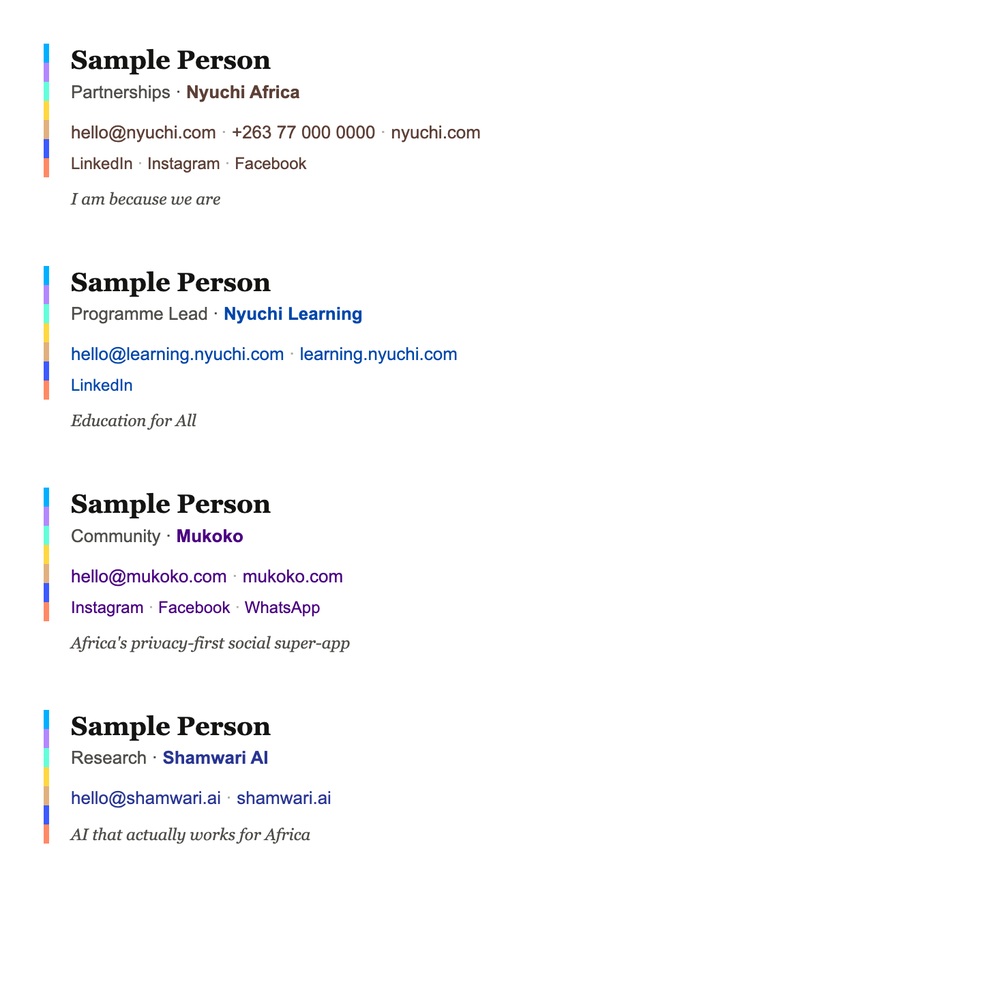
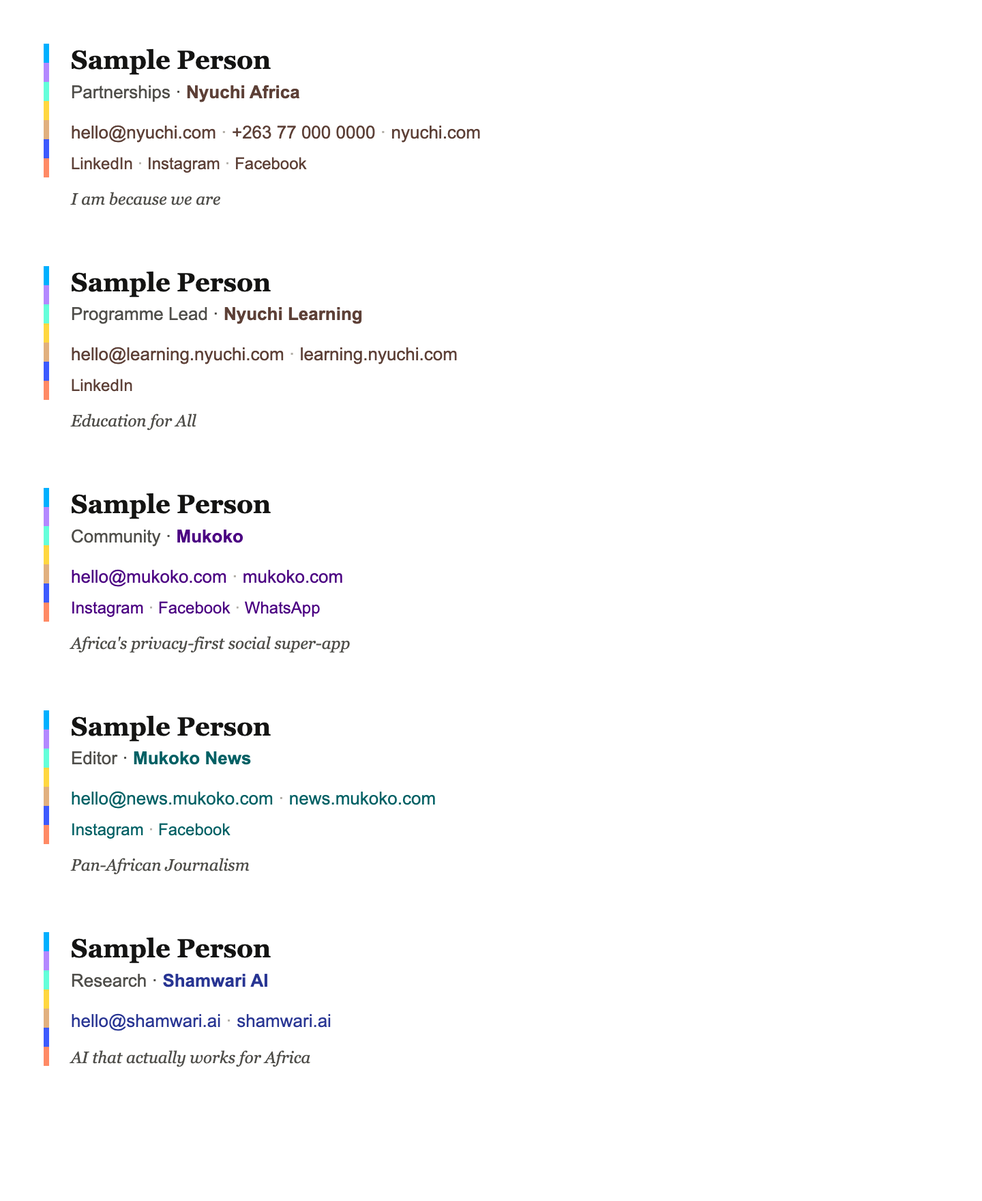
fix(brands): Nyuchi is gold, Mukoko tanzanite, Bundu copper — enforced (#75)
Owner rules on #70, on top of the Mzizi ecosystem canon:
- every Nyuchi brand and division is gold (Learning, Development,
  Foundation were cobalt/sodalite/malachite);
- Mukoko, the super app, is tanzanite; Mukoko News moves off tanzanite to
  river (heritage) — the canon has no colour for it;
- Bundu Foundation stays copper (the canon's choice);
- Lingo follows the canon (cobalt); TELIA indigo, Bundu Education savanna,
  so no sub-app takes gold or tanzanite.

Brands may now take a heritage colour; the signature knows all fourteen
families and keeps AA link contrast. A test enforces the rules. Signature
samples re-rendered, with Mukoko News added.

Claude-Session: https://claude.ai/code/session_01GHjaH1Vt2dVLWU68iz8tFq

Changed region(s): [[0.0312, 0.0312, 0.4688, 0.9062], [0.4062, 0.0938, 0.5, 0.1562]]

diff --git a/samples/signatures/index.html b/samples/signatures/index.html
@@ -1,1 +1,1 @@
-<!doctype html><meta charset="utf-8"><title>Signature samples</title><body style="margin:0;padding:32px;background:#ffffff;"><table role="presentation" cellpadding="0" cellspacing="0" border="0" style="border-collapse:collapse;font-family:'Noto Sans',Arial,Helvetica,sans-serif;font-size:13px;line-height:1.5;color:#141413;max-width:560px;"><tr><td valign="top" width="4" style="width:4px;padding:0;"><table role="presentation" cellpadding="0" cellspacing="0" border="0" width="4" style="border-collapse:collapse;width:4px;"><tr><td width="4" height="14" bgcolor="#00B0FF" style="width:4px;height:14px;background-color:#00B0FF;font-size:0;line-height:0;">&nbsp;</td></tr><tr><td width="4" height="14" bgcolor="#B388FF" style="width:4px;height:14px;background-color:#B388FF;font-size:0;line-height:0;">&nbsp;</td></tr><tr><td width="4" height="14" bgcolor="#64FFDA" style="width:4px;height:14px;background-color:#64FFDA;font-size:0;line-height:0;">&nbsp;</td></tr><tr><td width="4" height="14" bgcolor="#FFD740" style="width:4px;height:14px;background-color:#FFD740;font-size:0;line-height:0;">&nbsp;</td></tr><tr><td width="4" height="14" bgcolor="#E1B07E" style="width:4px;height:14px;background-color:#E1B07E;font-size:0;line-height:0;">&nbsp;</td></tr><tr><td width="4" height="14" bgcolor="#3D5AFE" style="width:4px;height:14px;background-color:#3D5AFE;font-size:0;line-height:0;">&nbsp;</td></tr><tr><td width="4" height="14" bgcolor="#FF8A65" style="width:4px;height:14px;background-color:#FF8A65;font-size:0;line-height:0;">&nbsp;</td></tr></table></td><td valign="top" style="padding:0 0 0 16px;"><div style="font-family:'Noto Serif',Georgia,'Times New Roman',serif;font-size:19px;font-weight:700;line-height:1.25;color:#141413;">Sample Person</div><div style="font-size:13px;color:#4F4E4A;padding:2px 0 10px 0;">Partnerships · <span style="color:#5D4037;font-weight:600;">Nyuchi Africa</span></div><div style="font-size:13px;color:#4F4E4A;"><a href="mailto:hello@nyuchi.com" style="color:#5D4037;text-decoration:none;">hello@nyuchi.com</a> <span style="color:#B2AFA8;">·</span> <a href="tel:+263770000000" style="color:#5D4037;text-decoration:none;">+263 77 000 0000</a> <span style="color:#B2AFA8;">·</span> <a href="https://nyuchi.com" style="color:#5D4037;text-decoration:none;">nyuchi.com</a></div><div style="font-size:12px;color:#4F4E4A;padding-top:4px;"><a href="https://www.linkedin.com/company/nyuchi/" style="color:#5D4037;text-decoration:none;">LinkedIn</a> <span style="color:#B2AFA8;">·</span> <a href="https://instagram.com/nyuchi.africa" style="color:#5D4037;text-decoration:none;">Instagram</a> <span style="color:#B2AFA8;">·</span> <a href="https://facebook.com/nyuchigroup" style="color:#5D4037;text-decoration:none;">Facebook</a></div><div style="font-family:'Noto Serif',Georgia,'Times New Roman',serif;font-size:12px;font-style:italic;color:#4F4E4A;padding-top:8px;">I am because we are</div></td></tr></table><div style="height:40px"></div><table role="presentation" cellpadding="0" cellspacing="0" border="0" style="border-collapse:collapse;font-family:'Noto Sans',Arial,Helvetica,sans-serif;font-size:13px;line-height:1.5;color:#141413;max-width:560px;"><tr><td valign="top" width="4" style="width:4px;padding:0;"><table role="presentation" cellpadding="0" cellspacing="0" border="0" width="4" style="border-collapse:collapse;width:4px;"><tr><td width="4" height="14" bgcolor="#00B0FF" style="width:4px;height:14px;background-color:#00B0FF;font-size:0;line-height:0;">&nbsp;</td></tr><tr><td width="4" height="14" bgcolor="#B388FF" style="width:4px;height:14px;background-color:#B388FF;font-size:0;line-height:0;">&nbsp;</td></tr><tr><td width="4" height="14" bgcolor="#64FFDA" style="width:4px;height:14px;background-color:#64FFDA;font-size:0;line-height:0;">&nbsp;</td></tr><tr><td width="4" height="14" bgcolor="#FFD740" style="width:4px;height:14px;background-color:#FFD740;font-size:0;line-height:0;">&nbsp;</td></tr><tr><td width="4" height="14" bgcolor="#E1B07E" style="width:4px;height:14px;background-color:#E1B07E;font-size:0;line-height:0;">&nbsp;</td></tr><tr><td width="4" height="14" bgcolor="#3D5AFE" style="width:4px;height:14px;background-color:#3D5AFE;font-size:0;line-height:0;">&nbsp;</td></tr><tr><td width="4" height="14" bgcolor="#FF8A65" style="width:4px;height:14px;background-color:#FF8A65;font-size:0;line-height:0;">&nbsp;</td></tr></table></td><td valign="top" style="padding:0 0 0 16px;"><div style="font-family:'Noto Serif',Georgia,'Times New Roman',serif;font-size:19px;font-weight:700;line-height:1.25;color:#141413;">Sample Person</div><div style="font-size:13px;color:#4F4E4A;padding:2px 0 10px 0;">Programme Lead · <span style="color:#0047AB;font-weight:600;">Nyuchi Learning</span></div><div style="font-size:13px;color:#4F4E4A;"><a href="mailto:hello@learning.nyuchi.com" style="color:#0047AB;text-decoration:none;">hello@learning.nyuchi.com</a> <span style="color:#B2AFA8;">·</span> <a href="https://learning.nyuchi.com" style="color:#0047AB;text-decoration:none;">learning.nyuchi.com</a></div><div style="font-size:12px;color:#4F4E4A;padding-top:4px;"><a href="https://www.linkedin.com/company/nyuchi/" style="color:#0047AB;text-decoration:none;">LinkedIn</a></div><div style="font-family:'Noto Serif',Georgia,'Times New Roman',serif;font-size:12px;font-style:italic;color:#4F4E4A;padding-top:8px;">Education for All</div></td></tr></table><div style="height:40px"></div><table role="presentation" cellpadding="0" cellspacing="0" border="0" style="border-collapse:collapse;font-family:'Noto Sans',Arial,Helvetica,sans-serif;font-size:13px;line-height:1.5;color:#141413;max-width:560px;"><tr><td valign="top" width="4" style="width:4px;padding:0;"><table role="presentation" cellpadding="0" cellspacing="0" border="0" width="4" style="border-collapse:collapse;width:4px;"><tr><td width="4" height="14" bgcolor="#00B0FF" style="width:4px;height:14px;background-color:#00B0FF;font-size:0;line-height:0;">&nbsp;</td></tr><tr><td width="4" height="14" bgcolor="#B388FF" style="width:4px;height:14px;background-color:#B388FF;font-size:0;line-height:0;">&nbsp;</td></tr><tr><td width="4" height="14" bgcolor="#64FFDA" style="width:4px;height:14px;background-color:#64FFDA;font-size:0;line-height:0;">&nbsp;</td></tr><tr><td width="4" height="14" bgcolor="#FFD740" style="width:4px;height:14px;background-color:#FFD740;font-size:0;line-height:0;">&nbsp;</td></tr><tr><td width="4" height="14" bgcolor="#E1B07E" style="width:4px;height:14px;background-color:#E1B07E;font-size:0;line-height:0;">&nbsp;</td></tr><tr><td width="4" height="14" bgcolor="#3D5AFE" style="width:4px;height:14px;background-color:#3D5AFE;font-size:0;line-height:0;">&nbsp;</td></tr><tr><td width="4" height="14" bgcolor="#FF8A65" style="width:4px;height:14px;background-color:#FF8A65;font-size:0;line-height:0;">&nbsp;</td></tr></table></td><td valign="top" style="padding:0 0 0 16px;"><div style="font-family:'Noto Serif',Georgia,'Times New Roman',serif;font-size:19px;font-weight:700;line-height:1.25;color:#141413;">Sample Person</div><div style="font-size:13px;color:#4F4E4A;padding:2px 0 10px 0;">Community · <span style="color:#4B0082;font-weight:600;">Mukoko</span></div><div style="font-size:13px;color:#4F4E4A;"><a href="mailto:hello@mukoko.com" style="color:#4B0082;text-decoration:none;">hello@mukoko.com</a> <span style="color:#B2AFA8;">·</span> <a href="https://mukoko.com" style="color:#4B0082;text-decoration:none;">mukoko.com</a></div><div style="font-size:12px;color:#4F4E4A;padding-top:4px;"><a href="https://instagram.com/mukoko.africa" style="color:#4B0082;text-decoration:none;">Instagram</a> <span style="color:#B2AFA8;">·</span> <a href="https://facebook.com/mukokoafrica" style="color:#4B0082;text-decoration:none;">Facebook</a> <span style="color:#B2AFA8;">·</span> <a href="https://wa.me/263770000000" style="color:#4B0082;text-decoration:none;">WhatsApp</a></div><div style="font-family:'Noto Serif',Georgia,'Times New Roman',serif;font-size:12px;font-style:italic;color:#4F4E4A;padding-top:8px;">Africa&#39;s privacy-first social super-app</div></td></tr></table><div style="height:40px"></div><table role="presentation" cellpadding="0" cellspacing="0" border="0" style="border-collapse:collapse;font-family:'Noto Sans',Arial,Helvetica,sans-serif;font-size:13px;line-height:1.5;color:#141413;max-width:560px;"><tr><td valign="top" width="4" style="width:4px;padding:0;"><table role="presentation" cellpadding="0" cellspacing="0" border="0" width="4" style="border-collapse:collapse;width:4px;"><tr><td width="4" height="14" bgcolor="#00B0FF" style="width:4px;height:14px;background-color:#00B0FF;font-size:0;line-height:0;">&nbsp;</td></tr><tr><td width="4" height="14" bgcolor="#B388FF" style="width:4px;height:14px;background-color:#B388FF;font-size:0;line-height:0;">&nbsp;</td></tr><tr><td width="4" height="14" bgcolor="#64FFDA" style="width:4px;height:14px;background-color:#64FFDA;font-size:0;line-height:0;">&nbsp;</td></tr><tr><td width="4" height="14" bgcolor="#FFD740" style="width:4px;height:14px;background-color:#FFD740;font-size:0;line-height:0;">&nbsp;</td></tr><tr><td width="4" height="14" bgcolor="#E1B07E" style="width:4px;height:14px;background-color:#E1B07E;font-size:0;line-height:0;">&nbsp;</td></tr><tr><td width="4" height="14" bgcolor="#3D5AFE" style="width:4px;height:14px;background-color:#3D5AFE;font-size:0;line-height:0;">&nbsp;</td></tr><tr><td width="4" height="14" bgcolor="#FF8A65" style="width:4px;height:14px;background-color:#FF8A65;font-size:0;line-height:0;">&nbsp;</td></tr></table></td><td valign="top" style="padding:0 0 0 16px;"><div style="font-family:'Noto Serif',Georgia,'Times New Roman',serif;font-size:19px;font-weight:700;line-height:1.25;color:#141413;">Sample Person</div><div style="font-size:13px;color:#4F4E4A;padding:2px 0 10px 0;">Research · <span style="color:#283593;font-weight:600;">Shamwari AI</span></div><div style="font-size:13px;color:#4F4E4A;"><a href="mailto:hello@shamwari.ai" style="color:#283593;text-decoration:none;">hello@shamwari.ai</a> <span style="color:#B2AFA8;">·</span> <a href="https://shamwari.ai" style="color:#283593;text-decoration:none;">shamwari.ai</a></div><div style="font-family:'Noto Serif',Georgia,'Times New Roman',serif;font-size:12px;font-style:italic;color:#4F4E4A;padding-top:8px;">AI that actually works for Africa</div></td></tr></table><div style="height:40px"></div></body>
+<!doctype html><meta charset="utf-8"><title>Signature samples</title><body style="margin:0;padding:32px;background:#ffffff;"><table role="presentation" cellpadding="0" cellspacing="0" border="0" style="border-collapse:collapse;font-family:'Noto Sans',Arial,Helvetica,sans-serif;font-size:13px;line-height:1.5;color:#141413;max-width:560px;"><tr><td valign="top" width="4" style="width:4px;padding:0;"><table role="presentation" cellpadding="0" cellspacing="0" border="0" width="4" style="border-collapse:collapse;width:4px;"><tr><td width="4" height="14" bgcolor="#00B0FF" style="width:4px;height:14px;background-color:#00B0FF;font-size:0;line-height:0;">&nbsp;</td></tr><tr><td width="4" height="14" bgcolor="#B388FF" style="width:4px;height:14px;background-color:#B388FF;font-size:0;line-height:0;">&nbsp;</td></tr><tr><td width="4" height="14" bgcolor="#64FFDA" style="width:4px;height:14px;background-color:#64FFDA;font-size:0;line-height:0;">&nbsp;</td></tr><tr><td width="4" height="14" bgcolor="#FFD740" style="width:4px;height:14px;background-color:#FFD740;font-size:0;line-height:0;">&nbsp;</td></tr><tr><td width="4" height="14" bgcolor="#E1B07E" style="width:4px;height:14px;background-color:#E1B07E;font-size:0;line-height:0;">&nbsp;</td></tr><tr><td width="4" height="14" bgcolor="#3D5AFE" style="width:4px;height:14px;background-color:#3D5AFE;font-size:0;line-height:0;">&nbsp;</td></tr><tr><td width="4" height="14" bgcolor="#FF8A65" style="width:4px;height:14px;background-color:#FF8A65;font-size:0;line-height:0;">&nbsp;</td></tr></table></td><td valign="top" style="padding:0 0 0 16px;"><div style="font-family:'Noto Serif',Georgia,'Times New Roman',serif;font-size:19px;font-weight:700;line-height:1.25;color:#141413;">Sample Person</div><div style="font-size:13px;color:#4F4E4A;padding:2px 0 10px 0;">Partnerships · <span style="color:#5D4037;font-weight:600;">Nyuchi Africa</span></div><div style="font-size:13px;color:#4F4E4A;"><a href="mailto:hello@nyuchi.com" style="color:#5D4037;text-decoration:none;">hello@nyuchi.com</a> <span style="color:#B2AFA8;">·</span> <a href="tel:+263770000000" style="color:#5D4037;text-decoration:none;">+263 77 000 0000</a> <span style="color:#B2AFA8;">·</span> <a href="https://nyuchi.com" style="color:#5D4037;text-decoration:none;">nyuchi.com</a></div><div style="font-size:12px;color:#4F4E4A;padding-top:4px;"><a href="https://www.linkedin.com/company/nyuchi/" style="color:#5D4037;text-decoration:none;">LinkedIn</a> <span style="color:#B2AFA8;">·</span> <a href="https://instagram.com/nyuchi.africa" style="color:#5D4037;text-decoration:none;">Instagram</a> <span style="color:#B2AFA8;">·</span> <a href="https://facebook.com/nyuchigroup" style="color:#5D4037;text-decoration:none;">Facebook</a></div><div style="font-family:'Noto Serif',Georgia,'Times New Roman',serif;font-size:12px;font-style:italic;color:#4F4E4A;padding-top:8px;">I am because we are</div></td></tr></table><div style="height:40px"></div><table role="presentation" cellpadding="0" cellspacing="0" border="0" style="border-collapse:collapse;font-family:'Noto Sans',Arial,Helvetica,sans-serif;font-size:13px;line-height:1.5;color:#141413;max-width:560px;"><tr><td valign="top" width="4" style="width:4px;padding:0;"><table role="presentation" cellpadding="0" cellspacing="0" border="0" width="4" style="border-collapse:collapse;width:4px;"><tr><td width="4" height="14" bgcolor="#00B0FF" style="width:4px;height:14px;background-color:#00B0FF;font-size:0;line-height:0;">&nbsp;</td></tr><tr><td width="4" height="14" bgcolor="#B388FF" style="width:4px;height:14px;background-color:#B388FF;font-size:0;line-height:0;">&nbsp;</td></tr><tr><td width="4" height="14" bgcolor="#64FFDA" style="width:4px;height:14px;background-color:#64FFDA;font-size:0;line-height:0;">&nbsp;</td></tr><tr><td width="4" height="14" bgcolor="#FFD740" style="width:4px;height:14px;background-color:#FFD740;font-size:0;line-height:0;">&nbsp;</td></tr><tr><td width="4" height="14" bgcolor="#E1B07E" style="width:4px;height:14px;background-color:#E1B07E;font-size:0;line-height:0;">&nbsp;</td></tr><tr><td width="4" height="14" bgcolor="#3D5AFE" style="width:4px;height:14px;background-color:#3D5AFE;font-size:0;line-height:0;">&nbsp;</td></tr><tr><td width="4" height="14" bgcolor="#FF8A65" style="width:4px;height:14px;background-color:#FF8A65;font-size:0;line-height:0;">&nbsp;</td></tr></table></td><td valign="top" style="padding:0 0 0 16px;"><div style="font-family:'Noto Serif',Georgia,'Times New Roman',serif;font-size:19px;font-weight:700;line-height:1.25;color:#141413;">Sample Person</div><div style="font-size:13px;color:#4F4E4A;padding:2px 0 10px 0;">Programme Lead · <span style="color:#5D4037;font-weight:600;">Nyuchi Learning</span></div><div style="font-size:13px;color:#4F4E4A;"><a href="mailto:hello@learning.nyuchi.com" style="color:#5D4037;text-decoration:none;">hello@learning.nyuchi.com</a> <span style="color:#B2AFA8;">·</span> <a href="https://learning.nyuchi.com" style="color:#5D4037;text-decoration:none;">learning.nyuchi.com</a></div><div style="font-size:12px;color:#4F4E4A;padding-top:4px;"><a href="https://www.linkedin.com/company/nyuchi/" style="color:#5D4037;text-decoration:none;">LinkedIn</a></div><div style="font-family:'Noto Serif',Georgia,'Times New Roman',serif;font-size:12px;font-style:italic;color:#4F4E4A;padding-top:8px;">Education for All</div></td></tr></table><div style="height:40px"></div><table role="presentation" cellpadding="0" cellspacing="0" border="0" style="border-collapse:collapse;font-family:'Noto Sans',Arial,Helvetica,sans-serif;font-size:13px;line-height:1.5;color:#141413;max-width:560px;"><tr><td valign="top" width="4" style="width:4px;padding:0;"><table role="presentation" cellpadding="0" cellspacing="0" border="0" width="4" style="border-collapse:collapse;width:4px;"><tr><td width="4" height="14" bgcolor="#00B0FF" style="width:4px;height:14px;background-color:#00B0FF;font-size:0;line-height:0;">&nbsp;</td></tr><tr><td width="4" height="14" bgcolor="#B388FF" style="width:4px;height:14px;background-color:#B388FF;font-size:0;line-height:0;">&nbsp;</td></tr><tr><td width="4" height="14" bgcolor="#64FFDA" style="width:4px;height:14px;background-color:#64FFDA;font-size:0;line-height:0;">&nbsp;</td></tr><tr><td width="4" height="14" bgcolor="#FFD740" style="width:4px;height:14px;background-color:#FFD740;font-size:0;line-height:0;">&nbsp;</td></tr><tr><td width="4" height="14" bgcolor="#E1B07E" style="width:4px;height:14px;background-color:#E1B07E;font-size:0;line-height:0;">&nbsp;</td></tr><tr><td width="4" height="14" bgcolor="#3D5AFE" style="width:4px;height:14px;background-color:#3D5AFE;font-size:0;line-height:0;">&nbsp;</td></tr><tr><td width="4" height="14" bgcolor="#FF8A65" style="width:4px;height:14px;background-color:#FF8A65;font-size:0;line-height:0;">&nbsp;</td></tr></table></td><td valign="top" style="padding:0 0 0 16px;"><div style="font-family:'Noto Serif',Georgia,'Times New Roman',serif;font-size:19px;font-weight:700;line-height:1.25;color:#141413;">Sample Person</div><div style="font-size:13px;color:#4F4E4A;padding:2px 0 10px 0;">Community · <span style="color:#4B0082;font-weight:600;">Mukoko</span></div><div style="font-size:13px;color:#4F4E4A;"><a href="mailto:hello@mukoko.com" style="color:#4B0082;text-decoration:none;">hello@mukoko.com</a> <span style="color:#B2AFA8;">·</span> <a href="https://mukoko.com" style="color:#4B0082;text-decoration:none;">mukoko.com</a></div><div style="font-size:12px;color:#4F4E4A;padding-top:4px;"><a href="https://instagram.com/mukoko.africa" style="color:#4B0082;text-decoration:none;">Instagram</a> <span style="color:#B2AFA8;">·</span> <a href="https://facebook.com/mukokoafrica" style="color:#4B0082;text-decoration:none;">Facebook</a> <span style="color:#B2AFA8;">·</span> <a href="https://wa.me/263770000000" style="color:#4B0082;text-decoration:none;">WhatsApp</a></div><div style="font-family:'Noto Serif',Georgia,'Times New Roman',serif;font-size:12px;font-style:italic;color:#4F4E4A;padding-top:8px;">Africa&#39;s privacy-first social super-app</div></td></tr></table><div style="height:40px"></div><table role="presentation" cellpadding="0" cellspacing="0" border="0" style="border-collapse:collapse;font-family:'Noto Sans',Arial,Helvetica,sans-serif;font-size:13px;line-height:1.5;color:#141413;max-width:560px;"><tr><td valign="top" width="4" style="width:4px;padding:0;"><table role="presentation" cellpadding="0" cellspacing="0" border="0" width="4" style="border-collapse:collapse;width:4px;"><tr><td width="4" height="14" bgcolor="#00B0FF" style="width:4px;height:14px;background-color:#00B0FF;font-size:0;line-height:0;">&nbsp;</td></tr><tr><td width="4" height="14" bgcolor="#B388FF" style="width:4px;height:14px;background-color:#B388FF;font-size:0;line-height:0;">&nbsp;</td></tr><tr><td width="4" height="14" bgcolor="#64FFDA" style="width:4px;height:14px;background-color:#64FFDA;font-size:0;line-height:0;">&nbsp;</td></tr><tr><td width="4" height="14" bgcolor="#FFD740" style="width:4px;height:14px;background-color:#FFD740;font-size:0;line-height:0;">&nbsp;</td></tr><tr><td width="4" height="14" bgcolor="#E1B07E" style="width:4px;height:14px;background-color:#E1B07E;font-size:0;line-height:0;">&nbsp;</td></tr><tr><td width="4" height="14" bgcolor="#3D5AFE" style="width:4px;height:14px;background-color:#3D5AFE;font-size:0;line-height:0;">&nbsp;</td></tr><tr><td width="4" height="14" bgcolor="#FF8A65" style="width:4px;height:14px;background-color:#FF8A65;font-size:0;line-height:0;">&nbsp;</td></tr></table></td><td valign="top" style="padding:0 0 0 16px;"><div style="font-family:'Noto Serif',Georgia,'Times New Roman',serif;font-size:19px;font-weight:700;line-height:1.25;color:#141413;">Sample Person</div><div style="font-size:13px;color:#4F4E4A;padding:2px 0 10px 0;">Editor · <span style="color:#006064;font-weight:600;">Mukoko News</span></div><div style="font-size:13px;color:#4F4E4A;"><a href="mailto:hello@news.mukoko.com" style="color:#006064;text-decoration:none;">hello@news.mukoko.com</a> <span style="color:#B2AFA8;">·</span> <a href="https://news.mukoko.com" style="color:#006064;text-decoration:none;">news.mukoko.com</a></div><div style="font-size:12px;color:#4F4E4A;padding-top:4px;"><a href="https://instagram.com/mukoko.africa" style="color:#006064;text-decoration:none;">Instagram</a> <span style="color:#B2AFA8;">·</span> <a href="https://facebook.com/mukokoafrica" style="color:#006064;text-decoration:none;">Facebook</a></div><div style="font-family:'Noto Serif',Georgia,'Times New Roman',serif;font-size:12px;font-style:italic;color:#4F4E4A;padding-top:8px;">Pan-African Journalism</div></td></tr></table><div style="height:40px"></div><table role="presentation" cellpadding="0" cellspacing="0" border="0" style="border-collapse:collapse;font-family:'Noto Sans',Arial,Helvetica,sans-serif;font-size:13px;line-height:1.5;color:#141413;max-width:560px;"><tr><td valign="top" width="4" style="width:4px;padding:0;"><table role="presentation" cellpadding="0" cellspacing="0" border="0" width="4" style="border-collapse:collapse;width:4px;"><tr><td width="4" height="14" bgcolor="#00B0FF" style="width:4px;height:14px;background-color:#00B0FF;font-size:0;line-height:0;">&nbsp;</td></tr><tr><td width="4" height="14" bgcolor="#B388FF" style="width:4px;height:14px;background-color:#B388FF;font-size:0;line-height:0;">&nbsp;</td></tr><tr><td width="4" height="14" bgcolor="#64FFDA" style="width:4px;height:14px;background-color:#64FFDA;font-size:0;line-height:0;">&nbsp;</td></tr><tr><td width="4" height="14" bgcolor="#FFD740" style="width:4px;height:14px;background-color:#FFD740;font-size:0;line-height:0;">&nbsp;</td></tr><tr><td width="4" height="14" bgcolor="#E1B07E" style="width:4px;height:14px;background-color:#E1B07E;font-size:0;line-height:0;">&nbsp;</td></tr><tr><td width="4" height="14" bgcolor="#3D5AFE" style="width:4px;height:14px;background-color:#3D5AFE;font-size:0;line-height:0;">&nbsp;</td></tr><tr><td width="4" height="14" bgcolor="#FF8A65" style="width:4px;height:14px;background-color:#FF8A65;font-size:0;line-height:0;">&nbsp;</td></tr></table></td><td valign="top" style="padding:0 0 0 16px;"><div style="font-family:'Noto Serif',Georgia,'Times New Roman',serif;font-size:19px;font-weight:700;line-height:1.25;color:#141413;">Sample Person</div><div style="font-size:13px;color:#4F4E4A;padding:2px 0 10px 0;">Research · <span style="color:#283593;font-weight:600;">Shamwari AI</span></div><div style="font-size:13px;color:#4F4E4A;"><a href="mailto:hello@shamwari.ai" style="color:#283593;text-decoration:none;">hello@shamwari.ai</a> <span style="color:#B2AFA8;">·</span> <a href="https://shamwari.ai" style="color:#283593;text-decoration:none;">shamwari.ai</a></div><div style="font-family:'Noto Serif',Georgia,'Times New Roman',serif;font-size:12px;font-style:italic;color:#4F4E4A;padding-top:8px;">AI that actually works for Africa</div></td></tr></table><div style="height:40px"></div></body>

diff --git a/samples/signatures/learning.html b/samples/signatures/learning.html
@@ -1,1 +1,1 @@
-<table role="presentation" cellpadding="0" cellspacing="0" border="0" style="border-collapse:collapse;font-family:'Noto Sans',Arial,Helvetica,sans-serif;font-size:13px;line-height:1.5;color:#141413;max-width:560px;"><tr><td valign="top" width="4" style="width:4px;padding:0;"><table role="presentation" cellpadding="0" cellspacing="0" border="0" width="4" style="border-collapse:collapse;width:4px;"><tr><td width="4" height="14" bgcolor="#00B0FF" style="width:4px;height:14px;background-color:#00B0FF;font-size:0;line-height:0;">&nbsp;</td></tr><tr><td width="4" height="14" bgcolor="#B388FF" style="width:4px;height:14px;background-color:#B388FF;font-size:0;line-height:0;">&nbsp;</td></tr><tr><td width="4" height="14" bgcolor="#64FFDA" style="width:4px;height:14px;background-color:#64FFDA;font-size:0;line-height:0;">&nbsp;</td></tr><tr><td width="4" height="14" bgcolor="#FFD740" style="width:4px;height:14px;background-color:#FFD740;font-size:0;line-height:0;">&nbsp;</td></tr><tr><td width="4" height="14" bgcolor="#E1B07E" style="width:4px;height:14px;background-color:#E1B07E;font-size:0;line-height:0;">&nbsp;</td></tr><tr><td width="4" height="14" bgcolor="#3D5AFE" style="width:4px;height:14px;background-color:#3D5AFE;font-size:0;line-height:0;">&nbsp;</td></tr><tr><td width="4" height="14" bgcolor="#FF8A65" style="width:4px;height:14px;background-color:#FF8A65;font-size:0;line-height:0;">&nbsp;</td></tr></table></td><td valign="top" style="padding:0 0 0 16px;"><div style="font-family:'Noto Serif',Georgia,'Times New Roman',serif;font-size:19px;font-weight:700;line-height:1.25;color:#141413;">Sample Person</div><div style="font-size:13px;color:#4F4E4A;padding:2px 0 10px 0;">Programme Lead · <span style="color:#0047AB;font-weight:600;">Nyuchi Learning</span></div><div style="font-size:13px;color:#4F4E4A;"><a href="mailto:hello@learning.nyuchi.com" style="color:#0047AB;text-decoration:none;">hello@learning.nyuchi.com</a> <span style="color:#B2AFA8;">·</span> <a href="https://learning.nyuchi.com" style="color:#0047AB;text-decoration:none;">learning.nyuchi.com</a></div><div style="font-size:12px;color:#4F4E4A;padding-top:4px;"><a href="https://www.linkedin.com/company/nyuchi/" style="color:#0047AB;text-decoration:none;">LinkedIn</a></div><div style="font-family:'Noto Serif',Georgia,'Times New Roman',serif;font-size:12px;font-style:italic;color:#4F4E4A;padding-top:8px;">Education for All</div></td></tr></table>
+<table role="presentation" cellpadding="0" cellspacing="0" border="0" style="border-collapse:collapse;font-family:'Noto Sans',Arial,Helvetica,sans-serif;font-size:13px;line-height:1.5;color:#141413;max-width:560px;"><tr><td valign="top" width="4" style="width:4px;padding:0;"><table role="presentation" cellpadding="0" cellspacing="0" border="0" width="4" style="border-collapse:collapse;width:4px;"><tr><td width="4" height="14" bgcolor="#00B0FF" style="width:4px;height:14px;background-color:#00B0FF;font-size:0;line-height:0;">&nbsp;</td></tr><tr><td width="4" height="14" bgcolor="#B388FF" style="width:4px;height:14px;background-color:#B388FF;font-size:0;line-height:0;">&nbsp;</td></tr><tr><td width="4" height="14" bgcolor="#64FFDA" style="width:4px;height:14px;background-color:#64FFDA;font-size:0;line-height:0;">&nbsp;</td></tr><tr><td width="4" height="14" bgcolor="#FFD740" style="width:4px;height:14px;background-color:#FFD740;font-size:0;line-height:0;">&nbsp;</td></tr><tr><td width="4" height="14" bgcolor="#E1B07E" style="width:4px;height:14px;background-color:#E1B07E;font-size:0;line-height:0;">&nbsp;</td></tr><tr><td width="4" height="14" bgcolor="#3D5AFE" style="width:4px;height:14px;background-color:#3D5AFE;font-size:0;line-height:0;">&nbsp;</td></tr><tr><td width="4" height="14" bgcolor="#FF8A65" style="width:4px;height:14px;background-color:#FF8A65;font-size:0;line-height:0;">&nbsp;</td></tr></table></td><td valign="top" style="padding:0 0 0 16px;"><div style="font-family:'Noto Serif',Georgia,'Times New Roman',serif;font-size:19px;font-weight:700;line-height:1.25;color:#141413;">Sample Person</div><div style="font-size:13px;color:#4F4E4A;padding:2px 0 10px 0;">Programme Lead · <span style="color:#5D4037;font-weight:600;">Nyuchi Learning</span></div><div style="font-size:13px;color:#4F4E4A;"><a href="mailto:hello@learning.nyuchi.com" style="color:#5D4037;text-decoration:none;">hello@learning.nyuchi.com</a> <span style="color:#B2AFA8;">·</span> <a href="https://learning.nyuchi.com" style="color:#5D4037;text-decoration:none;">learning.nyuchi.com</a></div><div style="font-size:12px;color:#4F4E4A;padding-top:4px;"><a href="https://www.linkedin.com/company/nyuchi/" style="color:#5D4037;text-decoration:none;">LinkedIn</a></div><div style="font-family:'Noto Serif',Georgia,'Times New Roman',serif;font-size:12px;font-style:italic;color:#4F4E4A;padding-top:8px;">Education for All</div></td></tr></table>

diff --git a/samples/signatures/mukokoNews.html b/samples/signatures/mukokoNews.html
@@ -1,0 +1,1 @@
+<table role="presentation" cellpadding="0" cellspacing="0" border="0" style="border-collapse:collapse;font-family:'Noto Sans',Arial,Helvetica,sans-serif;font-size:13px;line-height:1.5;color:#141413;max-width:560px;"><tr><td valign="top" width="4" style="width:4px;padding:0;"><table role="presentation" cellpadding="0" cellspacing="0" border="0" width="4" style="border-collapse:collapse;width:4px;"><tr><td width="4" height="14" bgcolor="#00B0FF" style="width:4px;height:14px;background-color:#00B0FF;font-size:0;line-height:0;">&nbsp;</td></tr><tr><td width="4" height="14" bgcolor="#B388FF" style="width:4px;height:14px;background-color:#B388FF;font-size:0;line-height:0;">&nbsp;</td></tr><tr><td width="4" height="14" bgcolor="#64FFDA" style="width:4px;height:14px;background-color:#64FFDA;font-size:0;line-height:0;">&nbsp;</td></tr><tr><td width="4" height="14" bgcolor="#FFD740" style="width:4px;height:14px;background-color:#FFD740;font-size:0;line-height:0;">&nbsp;</td></tr><tr><td width="4" height="14" bgcolor="#E1B07E" style="width:4px;height:14px;background-color:#E1B07E;font-size:0;line-height:0;">&nbsp;</td></tr><tr><td width="4" height="14" bgcolor="#3D5AFE" style="width:4px;height:14px;background-color:#3D5AFE;font-size:0;line-height:0;">&nbsp;</td></tr><tr><td width="4" height="14" bgcolor="#FF8A65" style="width:4px;height:14px;background-color:#FF8A65;font-size:0;line-height:0;">&nbsp;</td></tr></table></td><td valign="top" style="padding:0 0 0 16px;"><div style="font-family:'Noto Serif',Georgia,'Times New Roman',serif;font-size:19px;font-weight:700;line-height:1.25;color:#141413;">Sample Person</div><div style="font-size:13px;color:#4F4E4A;padding:2px 0 10px 0;">Editor · <span style="color:#006064;font-weight:600;">Mukoko News</span></div><div style="font-size:13px;color:#4F4E4A;"><a href="mailto:hello@news.mukoko.com" style="color:#006064;text-decoration:none;">hello@news.mukoko.com</a> <span style="color:#B2AFA8;">·</span> <a href="https://news.mukoko.com" style="color:#006064;text-decoration:none;">news.mukoko.com</a></div><div style="font-size:12px;color:#4F4E4A;padding-top:4px;"><a href="https://instagram.com/mukoko.africa" style="color:#006064;text-decoration:none;">Instagram</a> <span style="color:#B2AFA8;">·</span> <a href="https://facebook.com/mukokoafrica" style="color:#006064;text-decoration:none;">Facebook</a></div><div style="font-family:'Noto Serif',Georgia,'Times New Roman',serif;font-size:12px;font-style:italic;color:#4F4E4A;padding-top:8px;">Pan-African Journalism</div></td></tr></table>

diff --git a/next/crates/brands/tests/brands.rs b/next/crates/brands/tests/brands.rs
@@ -1,7 +1,9 @@
 use nyuchi_brands::{Kind, all, for_email, get};
 use std::collections::HashSet;
 
-const MINERALS: [&str; 7] = [
+/// Mzizi colour families a brand may take: the seven minerals and the
+/// seven heritage colours (mzizi_get_tokens `minerals`, `heritage`).
+const FAMILIES: [&str; 14] = [
     "cobalt",
     "tanzanite",
     "malachite",
@@ -9,6 +11,13 @@ const MINERALS: [&str; 7] = [
     "terracotta",
     "sodalite",
     "copper",
+    "indigo",
+    "savanna",
+    "baobab",
+    "sunset",
+    "river",
+    "hematite",
+    "kalahari",
 ];
 
 #[test]
@@ -46,7 +55,7 @@ fn taxonomy_holds() {
 fn every_brand_has_a_mzizi_mineral_and_https_links() {
     for b in all() {
         assert!(
-            MINERALS.contains(&b.mineral.as_str()),
+            FAMILIES.contains(&b.mineral.as_str()),
             "{}: {}",
             b.key,
             b.mineral
@@ -73,4 +82,46 @@ fn lookups() {
     assert!(for_email("someone@example.com").is_none());
     assert!(for_email("not-an-email").is_none());
     assert_eq!(get("nyuchi").unwrap().website(), "nyuchi.com");
+}
+
+/// The owner's colour rules (#70) on top of the Mzizi ecosystem canon.
+#[test]
+fn colour_rules() {
+    let bundu = get("bundu").unwrap();
+    assert!(
+        ["copper", "terracotta"].contains(&bundu.mineral.as_str()),
+        "the Foundation is copper or terracotta"
+    );
+    assert_eq!(
+        get("mukoko").unwrap().mineral,
+        "tanzanite",
+        "Mukoko, the super app, is tanzanite"
+    );
+    assert_eq!(
+        get("shamwari").unwrap().mineral,
+        "sodalite",
+        "Shamwari is sodalite (canon)"
+    );
+    // Lingo follows the canon (cobalt, a Mukoko mini-app there) while this
+    // list still files it under Nyuchi — the one named exception.
+    const CANON_EXCEPTIONS: [&str; 1] = ["lingo"];
+    for b in all() {
+        let nyuchi = b.key == "nyuchi" || b.parent.as_deref() == Some("nyuchi");
+        if nyuchi && !CANON_EXCEPTIONS.contains(&b.key.as_str()) {
+            assert_eq!(b.mineral, "gold", "{} is a Nyuchi brand, so gold", b.key);
+        } else if !["bundu", "nyuchi", "mukoko"].contains(&b.key.as_str()) {
+            assert!(
+                b.mineral != "gold" && b.mineral != "tanzanite",
+                "{} is a sub-app: gold is Nyuchi's and tanzanite is Mukoko's",
+                b.key
+            );
+        }
+    }
+    // Sub-apps under Mukoko stay apart from the super app.
+    for b in all()
+        .iter()
+        .filter(|b| b.parent.as_deref() == Some("mukoko"))
+    {
+        assert_ne!(b.mineral, "tanzanite", "{}", b.key);
+    }
 }

diff --git a/next/crates/signature/src/lib.rs b/next/crates/signature/src/lib.rs
@@ -37,6 +37,19 @@ pub const MINERALS: [(&str, &str, &str); 7] = [
     ("copper", "#BF5A36", "#FF8A65"),
 ];
 
+/// The seven Mzizi heritage colours, `(name, on-light, vivid)` — brand
+/// colour families for sub-apps alongside the minerals. They never appear
+/// in the identity strip, which is always the seven minerals.
+pub const HERITAGE: [(&str, &str, &str); 7] = [
+    ("indigo", "#4527A0", "#7986CB"),
+    ("savanna", "#8D6E1A", "#E5C158"),
+    ("baobab", "#4E342E", "#A1887F"),
+    ("sunset", "#D84315", "#FF7043"),
+    ("river", "#006064", "#4DD0E1"),
+    ("hematite", "#546E7A", "#90A4AE"),
+    ("kalahari", "#C9B589", "#E8D9B5"),
+];
+
 #[derive(Clone, Debug, Default, Deserialize, Serialize)]
 #[serde(default, deny_unknown_fields)]
 pub struct Params {
@@ -166,11 +179,12 @@ pub fn contrast(a: &str, b: &str) -> f64 {
     (hi + 0.05) / (lo + 0.05)
 }
 
-/// The colour for links and the brand name: the mineral's on-light hex
+/// The colour for links and the brand name: the colour family's on-light hex
 /// when it reaches 4.5:1 on white, otherwise ink.
 pub fn accent(mineral: &str) -> &'static str {
     let light = MINERALS
         .iter()
+        .chain(HERITAGE.iter())
         .find(|(name, _, _)| *name == mineral)
         .map_or(INK, |(_, light, _)| light);
     if contrast(light, "#FFFFFF") >= 4.5 {

diff --git a/next/crates/signature/tests/signature.rs b/next/crates/signature/tests/signature.rs
@@ -1,4 +1,4 @@
-use nyuchi_signature::{Error, MINERALS, Params, accent, build, contrast, https_url};
+use nyuchi_signature::{Error, HERITAGE, MINERALS, Params, accent, build, contrast, https_url};
 
 fn sample() -> Params {
     Params {
@@ -170,8 +170,20 @@ fn brand_comes_from_the_email_domain_when_not_given() {
 
 #[test]
 fn link_colours_meet_aa_on_white() {
-    for (name, _, _) in MINERALS {
+    for (name, _, _) in MINERALS.iter().chain(HERITAGE.iter()) {
         assert!(contrast(accent(name), "#FFFFFF") >= 4.5, "{name}");
+    }
+    // Every brand's colour family is one the signature knows.
+    for b in nyuchi_brands::all() {
+        assert!(
+            MINERALS
+                .iter()
+                .chain(HERITAGE.iter())
+                .any(|(n, _, _)| *n == b.mineral),
+            "{}: {}",
+            b.key,
+            b.mineral
+        );
     }
     // Copper's on-light hex is just under AA, so it falls back to ink.
     assert_eq!(accent("copper"), "#141413");

diff --git a/next/crates/signature/examples/samples.rs b/next/crates/signature/examples/samples.rs
@@ -36,6 +36,14 @@ fn main() {
             "+263 77 000 0000",
         ),
         (
+            "mukokoNews",
+            "Sample Person",
+            "Editor",
+            "hello@news.mukoko.com",
+            "",
+            "",
+        ),
+        (
             "shamwari",
             "Sample Person",
             "Research",

diff --git a/samples/README.md b/samples/README.md
@@ -21,7 +21,7 @@ Regenerate:
 cd next && cargo run --release -- campaign ../samples/toddle-launch/campaign.toml
 ```
 
-`signatures/` holds the redesigned email signature for four brands (HTML,
+`signatures/` holds the redesigned email signature for five brands (HTML,
 plain text, and `preview.png` of `index.html`). The person in them is made
 up; never commit a real staff member's details.
 
